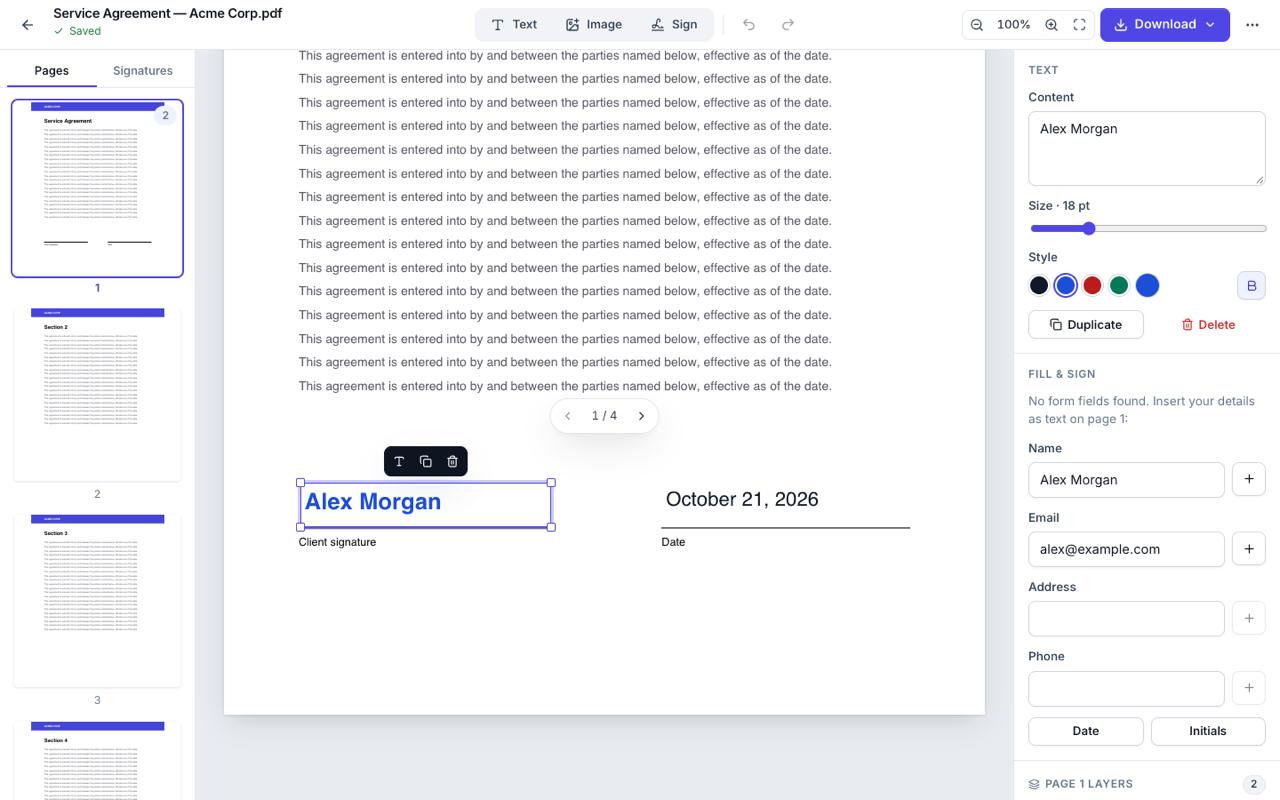
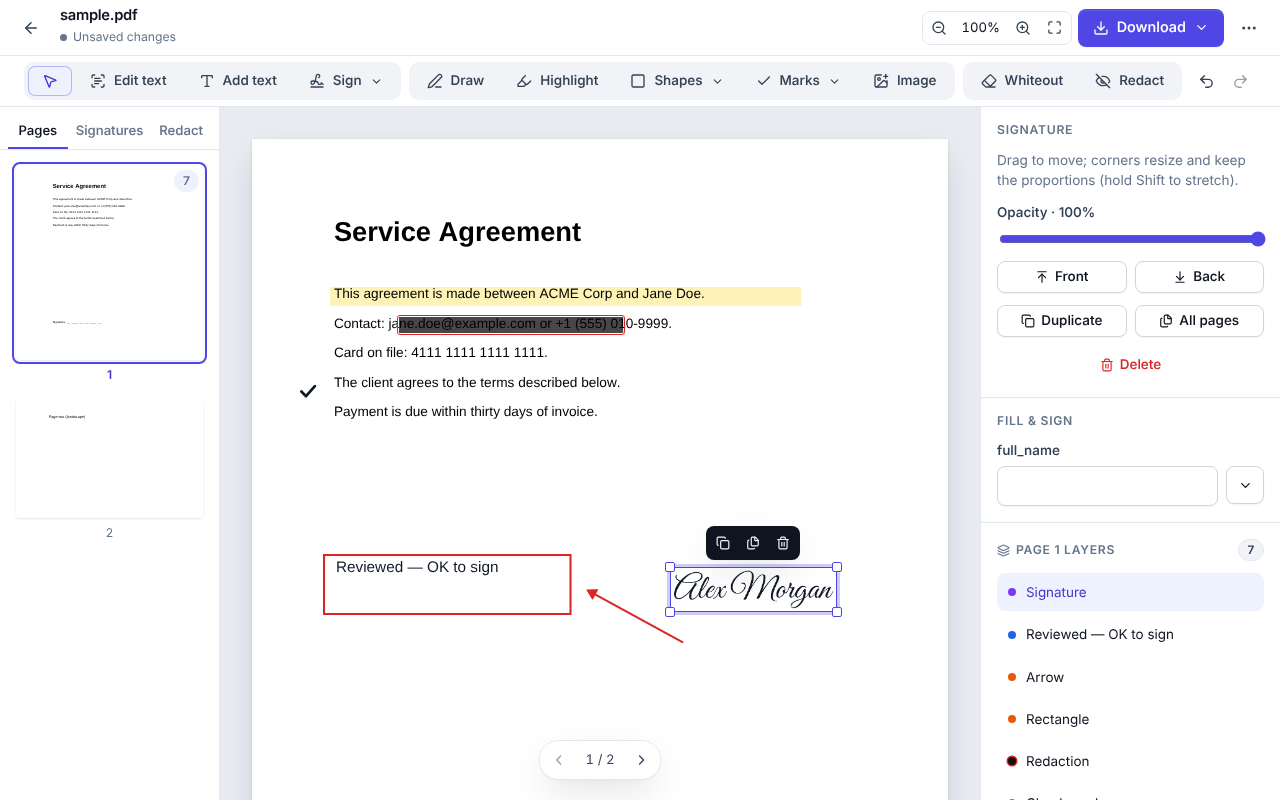
Document the new editor tools, OCR and redaction, with fresh screenshots
Claude-Session: https://claude.ai/code/session_01PFFP91uG8ke6gFgmcHMbNT

diff --git a/README.md b/README.md
@@ -27,9 +27,12 @@ Edit, sign, convert, compress and organize PDFs — right in your browser.
 
 ## ✨ Highlights
 
-- **21 tools, one workspace** — organize, optimize, convert, edit & sign, and secure PDFs.
+- **24 tools, one workspace** — organize, optimize, convert, edit & sign, and secure PDFs.
 - **Private by default** — merge, split, organize, rotate, watermark, page numbers and image conversion run **entirely in your browser**. Those files never leave your device.
-- **A real editor** — rewrite the text already in a PDF (scans too, via OCR) in a matching font, add text, images and reusable signatures, fill PDF forms, undo/redo, autosaved drafts, page thumbnails, touch support.
+- **A real editor** — rewrite the text already in a PDF (scans too, via OCR) in a matching font; draw, highlight, add shapes, arrows, check marks and text; sign by **drawing, typing or uploading** a signature; fill PDF forms; undo/redo, autosaved drafts, keyboard shortcuts, touch support.
+- **True redaction** — find names, emails, phone and card numbers (or drag over anything) and the content is **removed from the file**, not just covered with a black box.
+- **OCR that keeps the look** — scanned PDFs become searchable and selectable in 9 languages; sideways and upside-down scans are turned upright.
+- **What you see is what you get** — watermark and page-number tools preview the real output page by page.
 - **Speaks every script** — exports embed subset Noto fonts on demand, so `₹`, `Привет`, `café` and `नमस्ते` come out as real, searchable text.
 - **Pro-grade engines** — Ghostscript compression that never makes files bigger, layout-preserving PDF → Word (pdf2docx), table extraction to Excel, LibreOffice Office conversion, AES-256 encryption.
 - **Polished UI** — a cohesive design system with light & dark themes, responsive down to phones.
@@ -44,6 +47,10 @@ Edit, sign, convert, compress and organize PDFs — right in your browser.
 | <img src="docs/screenshots/dashboard.png" alt="Dashboard" /> | <img src="docs/screenshots/editor.png" alt="Editor" /> |
 | **Editor — dark theme** | **Organize pages** |
 | <img src="docs/screenshots/editor-dark.png" alt="Editor in dark theme" /> | <img src="docs/screenshots/organize.png" alt="Organize PDF tool" /> |
+| **Draw, type or upload a signature** | **Find & redact** |
+| <img src="docs/screenshots/signature.png" alt="Signature dialog with typed handwriting styles" /> | <img src="docs/screenshots/redact.png" alt="Finding emails, phone and card numbers to redact" /> |
+| **Watermark with live preview** | **Phone** |
+| <img src="docs/screenshots/watermark.png" alt="Watermark tool with a live preview" /> | <img src="docs/screenshots/mobile.png" alt="Editor on a phone" width="240" /> |
 | **Sign up** | **Landing — dark theme** |
 | <img src="docs/screenshots/signup-dark.png" alt="Sign up page" /> | <img src="docs/screenshots/landing-dark.png" alt="Landing page in dark theme" /> |
 
@@ -58,10 +65,11 @@ Edit, sign, convert, compress and organize PDFs — right in your browser.
 | Category | Tool | Runs | Powered by |
 | --- | --- | :---: | --- |
 | **Organize** | Merge PDF — drag to reorder | 🔒 | `@cantoo/pdf-lib` |
-| | Split PDF — extract a range or every page to a ZIP | 🔒 | `@cantoo/pdf-lib`, `fflate` |
-| | Organize PDF — reorder / remove pages visually, with undo | 🔒 | `@cantoo/pdf-lib`, `react-pdf` |
+| | Split PDF — page ranges (`1-3, 5, 8-last`), every N pages, or click the pages you want; one PDF or a ZIP | 🔒 | `@cantoo/pdf-lib`, `fflate` |
+| | Organize PDF — reorder, rotate, duplicate, remove, insert blank pages, add pages from more PDFs; multi-select, undo | 🔒 | `@cantoo/pdf-lib`, `pdf.js` |
 | | Rotate PDF — per page or all, respects existing rotation | 🔒 | `@cantoo/pdf-lib` |
 | **Optimize** | Compress PDF — 3 levels, shows savings, never larger than input | ☁ | Ghostscript + pikepdf |
+| | OCR PDF — searchable text layer, page images untouched, 9 languages, auto-rotates scans | ☁ | Tesseract via PyMuPDF |
 | | Repair PDF | ☁ | pikepdf (qpdf), PyMuPDF fallback |
 | | PDF to PDF/A | ☁ | Ghostscript |
 | **Convert to PDF** | Word, PowerPoint, Excel to PDF | ☁ | LibreOffice |
@@ -70,23 +78,30 @@ Edit, sign, convert, compress and organize PDFs — right in your browser.
 | **Convert from PDF** | PDF to Word — layout, tables and images preserved | ☁ | pdf2docx (PyMuPDF fallback) |
 | | PDF to Excel — real table detection | ☁ | PyMuPDF `find_tables` |
 | | PDF to PowerPoint — slides match the page aspect | ☁ | PyMuPDF + python-pptx |
-| | PDF to JPG / PNG — standard or high quality, ZIP download | 🔒 | `pdf.js`, `fflate` |
+| | PDF to JPG / PNG — 150 / 220 / 300 DPI, any pages, ZIP download | 🔒 | `pdf.js`, `fflate` |
 | **Edit & Sign** | Edit & Sign PDF (the editor) | 💾 | `react-pdf`, `@cantoo/pdf-lib` |
-| | Page Numbers — position picker, formats, start number, skip cover | 🔒 | `@cantoo/pdf-lib` |
-| | Add Watermark — live preview, colors, opacity, any language | 🔒 | `@cantoo/pdf-lib`, Noto fonts |
-| **Security** | Protect PDF — AES-256 with confirm & show-password | ☁ | pikepdf |
+| | Sign PDF — opens the editor ready to sign | 💾 | the editor |
+| | Page Numbers — 6 positions, formats like `Page 1 of 9` or your own, font, size, color, page range, mirrored for books; live preview | 🔒 | `@cantoo/pdf-lib` |
+| | Add Watermark — text or image, once or tiled, any angle, behind or over content, page range; live preview | 🔒 | `@cantoo/pdf-lib`, Noto fonts |
+| **Security** | Redact PDF — find text and patterns or mark areas; content is permanently removed | 💾 ☁ | PyMuPDF redaction |
+| | Protect PDF — AES-256, choose whether printing, copying and editing are allowed | ☁ | pikepdf |
 | | Unlock PDF — clear "wrong password" feedback | ☁ | pikepdf |
 
 ### The editor
 
-- Full-screen workspace: command bar, page thumbnails, canvas, and a properties inspector
+- Full-screen workspace: command bar, a tool strip (scrolls on phones), page thumbnails, canvas, and a properties inspector
+- **Tools**: select, edit text, add text, sign, draw (pen), highlight, rectangle, ellipse, line, arrow, check / cross / dot marks, image, whiteout and redact — pick one and click or drag on the page. Hold <kbd>Shift</kbd> for squares, circles and 45° lines
 - **Edit existing text** in place, keeping the original font when it contains every character typed (even subset fonts); otherwise the same family from the server's font library or a metric-compatible look-alike (Arial → Arimo, Calibri → Carlito, …). Any installed font can be picked instead. On scans the typeface (and bold/italic) is detected by comparing the recognised words' shapes with the installed fonts. Scanned pages are read with OCR (English + Hindi) and painted over in the sampled paper color ☁
-- Text with size, color and bold; images; **saved signatures** with automatic white-background removal
+- Text boxes that grow with their content: font (sans, serif, mono), size, bold, italic, alignment, color, opacity
+- **Signatures and initials**: draw them (pressure- and speed-sensitive ink), type them in one of four handwriting fonts, or upload a photo — the paper is removed with soft, anti-aliased edges. Saved signatures are reused on any document; click on the page to place
+- **Redaction**: search for words or patterns (emails, phone numbers, card numbers with a checksum test, SSNs, IBANs, links, dates) — scanned pages are searched with OCR — review the hits, and mark them. On download the server removes everything under each mark (text, image pixels, vector art, links, form fields) and the document metadata
+- Images and signatures keep their proportions when resized; opacity, bring to front / send to back, duplicate, **copy to all pages**
+- Paste images or text straight onto the page, or drop image files on it
 - **Fill & sign** — detects interactive form fields (text, checkbox, radio, dropdown); quick-fill name, email, address, phone, date and initials when a PDF has none
-- Floating item toolbar, layers panel, keyboard shortcuts (<kbd>⌘Z</kbd> / <kbd>⇧⌘Z</kbd>, <kbd>⌘S</kbd>, <kbd>Del</kbd>, arrow-key nudge)
+- Floating item toolbar, layers panel, keyboard shortcuts for every tool (press <kbd>?</kbd>), <kbd>⌘C</kbd> / <kbd>⌘V</kbd> / <kbd>⌘D</kbd>, <kbd>⌘Z</kbd> / <kbd>⇧⌘Z</kbd>, <kbd>⌘S</kbd>, <kbd>Del</kbd>, arrow-key nudge, <kbd>PgUp</kbd> / <kbd>PgDn</kbd>, ⌘ + scroll to zoom
 - Pointer events for mouse, touch and pen; side panels become drawers on tablets and phones
 - **Autosave** with a live status, flush on navigation, unsaved-changes guard
-- Exports to PDF, PNG or JPG; placement is correct on rotated and cropped pages
+- Exports to PDF (optionally with the form flattened), PNG or JPG; the same vector paths are drawn on screen and into the PDF, so placement and shapes match exactly, also on rotated and cropped pages
 
 ### The workspace
 
@@ -177,6 +192,7 @@ Render's free tier sleeps the backend after ~15 minutes idle. Instead of a myste
 - **Firestore rules** — users can only read and write their own records and can't create or transfer data for anyone else.
 - **Uploads** — short-lived Vercel Blob client tokens restricted to the caller's own path, allowed MIME types and size; deletes are checked against the owner's path prefix.
 - **Backend** — shared-secret or signed tool tokens, client filenames never touch the filesystem, strict input validation, per-user rate limits, subprocess timeouts, no external fetches for HTML rendering.
+- **Redaction** — applied by the server with MuPDF's redaction engine, then the file is garbage-collected and rewritten, so removed text, pixels, links and metadata can't be recovered from the download.
 - **Headers** — CSP, HSTS, `X-Frame-Options: DENY`, `nosniff`, strict referrer and permissions policies in production.
 
 ---
@@ -264,7 +280,8 @@ docker compose up --build pdf-tools-api
 | `SUBPROCESS_TIMEOUT_SECONDS` | `100` | Timeout for LibreOffice / Ghostscript |
 | `MAX_CONCURRENT_CONVERSIONS` | `2` | Heavy jobs allowed in parallel |
 | `PDF2DOCX_MAX_PAGES` | `150` | Longer documents use the fast text-based Word conversion |
-| `OCR_LANGUAGES` | `eng+hin` | Tesseract languages for reading scanned pages in Edit text |
+| `OCR_LANGUAGES` | `eng+hin` | Tesseract languages for reading scanned pages in Edit text (OCR PDF lets users pick from the installed ones) |
+| `OCR_MAX_PAGES` | `300` | Longest document OCR PDF accepts |
 | `OCR_DPI` | `300` | Resolution scanned pages are read at |
 | `TESSDATA_PREFIX` | set in the image | Folder with Tesseract language data; without it, scanned pages can't be edited |
 | `FONT_DIRS` | bundled + system font folders | Folders (`:`-separated) indexed for the text-edit font library and picker |
@@ -302,13 +319,17 @@ app/
 │   ├── blob/upload|delete  Client upload tokens, owner-checked deletes
 │   └── pdf-tools/          Tool tokens, streaming proxy, backend status
 ├── components/             ForgeEditor, ToolShell, headers, dashboard, UI primitives
+│   └── editor/             Element model, tool strip, inspector, signature dialog, find & redact
 └── utils/                  PDF generation, fonts, coordinates, hooks
 backend/
 ├── app/main.py             FastAPI conversion service
+├── app/ocr.py              OCR PDF: invisible text layer, orientation detection
+├── app/redact.py           Find text and patterns, true redaction, metadata removal
 ├── app/text_edit.py        Edit text: finds lines (OCR for scans), rewrites them in place
 ├── app/font_library.py     Installed fonts, PDF font name matching, subset embedding
 ├── app/font_detect.py      Typeface detection on scans from word shapes
 ├── app/fonts/              Bundled Noto fonts (OFL), the fallback of last resort
+├── tests/                  pytest suite (OCR tests run when Tesseract data is installed)
 ├── Dockerfile              LibreOffice, Ghostscript, Tesseract, the font library
 └── requirements.txt
 lib/                        Firebase, server helpers, tool catalog
@@ -326,6 +347,10 @@ npm run dev      # start the dev server
 npm run build    # production build
 npm run start    # serve the production build
 npm run lint     # ESLint
+
+# Backend tests (from backend/). Point TESSDATA_PREFIX at Tesseract data to include OCR tests.
+pip install -r requirements-dev.txt
+pytest
 ```
 
 ---
@@ -334,6 +359,7 @@ npm run lint     # ESLint
 
 - Built by [**RitstaR**](https://github.com/ritstar)
 - Fonts: [Noto Sans](https://github.com/notofonts/latin-greek-cyrillic) and [Noto Sans Devanagari](https://github.com/notofonts/devanagari) — SIL Open Font License ([`public/fonts/OFL.txt`](public/fonts/OFL.txt))
+- Signature fonts: Dancing Script, Great Vibes, Caveat and Sacramento via [Fontsource](https://fontsource.org) — SIL Open Font License
 - Text-edit font library (installed from Debian in the backend image, each under its own license): Arimo, Tinos and Cousine (Croscore), Carlito, Caladea, the URW base35 fonts, Noto, Roboto, Open Sans, Lato, EB Garamond, Source Sans 3, Liberation and DejaVu
 - [Tesseract](https://github.com/tesseract-ocr/tesseract) for OCR and [fontTools](https://github.com/fonttools/fonttools) for font matching and subsetting
 - Standing on the shoulders of [pdf.js](https://github.com/mozilla/pdf.js), [pdf-lib](https://github.com/Hopding/pdf-lib) & [Cantoo's fork](https://github.com/cantoo-scribe/pdf-lib), [qpdf / pikepdf](https://github.com/pikepdf/pikepdf), [PyMuPDF](https://github.com/pymupdf/PyMuPDF), [pdf2docx](https://github.com/ArtifexSoftware/pdf2docx), [Ghostscript](https://www.ghostscript.com/), [LibreOffice](https://www.libreoffice.org/) and [WeasyPrint](https://weasyprint.org/)
